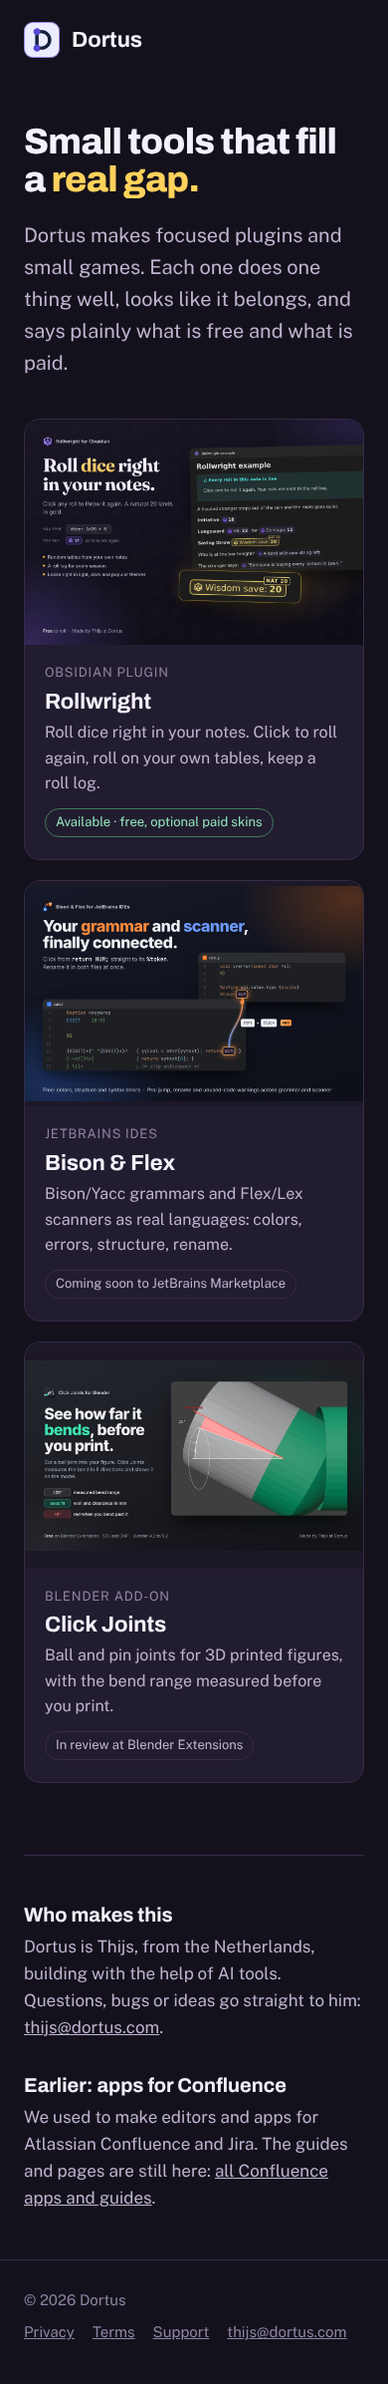
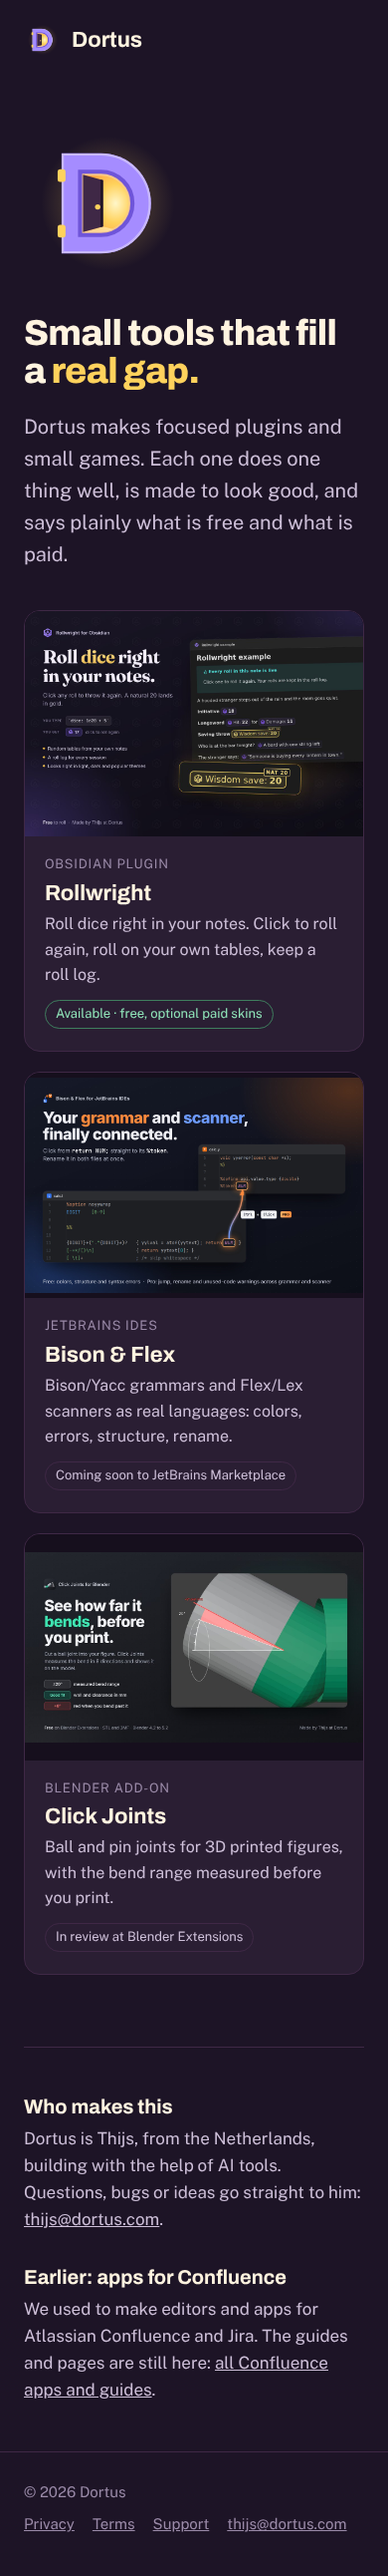
Abel: dortus.com v2 in het uniform (nieuwe bestandsnamen), logboek run 2
Claude-Session: https://claude.ai/code/session_01RMWUyjJZka2UPHxNRUD6xo

diff --git a/platformen/abel/dortus-com/index.html b/platformen/abel/dortus-com/index.html
@@ -5,9 +5,9 @@
   <meta name="viewport" content="width=device-width, initial-scale=1" />
   <title>Dortus: small games and focused tools that fill a real gap</title>
   <meta name="description" content="Dortus makes small games and focused tools: Rollwright for Obsidian, Bison &amp; Flex for JetBrains IDEs, Click Joints for Blender. Made by Thijs in the Netherlands." />
-  <meta name="theme-color" content="#14111c" />
-  <link rel="icon" href="/assets/dortus-mark.svg" type="image/svg+xml" />
-  <link rel="apple-touch-icon" href="/assets/apple-touch-icon.png" />
+  <meta name="theme-color" content="#1d1426" />
+  <link rel="icon" href="/assets/dortus-door-small.svg" type="image/svg+xml" />
+  <link rel="apple-touch-icon" href="/assets/dortus-door-512.png" />
   <link rel="canonical" href="https://dortus.com/" />
   <meta property="og:title" content="Dortus: small games and focused tools" />
   <meta property="og:description" content="Tools that fill a real gap in Obsidian, JetBrains IDEs and Blender. Made by Thijs in the Netherlands." />
@@ -19,7 +19,7 @@
   <style>
     @font-face { font-family: "Archivo"; font-weight: 500 800; font-display: swap; src: url("/assets/fonts/archivo-latin.woff2") format("woff2"); }
     @font-face { font-family: "Public Sans"; font-weight: 400 700; font-display: swap; src: url("/assets/fonts/publicsans-latin.woff2") format("woff2"); }
-    :root { --bg: #14111c; --bg-2: #1d1828; --card: #221c30; --line: #352c47; --ink: #f4f1fa; --ink-2: #bdb4cf; --ink-3: #8d84a3; --accent: #ffd25c; }
+    :root { --bg: #1d1426; --bg-2: #160f1d; --card: #2a1e33; --line: #3f2846; --ink: #fff4e0; --ink-2: #cdbfd8; --ink-3: #9a8aa8; --accent: #ffd25c; --lila: #a58cff; }
     * { box-sizing: border-box; }
     html { -webkit-text-size-adjust: 100%; }
     body { margin: 0; background: var(--bg); color: var(--ink); font: 17px/1.6 "Public Sans", system-ui, sans-serif; }
@@ -28,6 +28,8 @@
     header { padding: 22px 0; }
     .brand { display: inline-flex; align-items: center; gap: 12px; font: 700 22px "Archivo", sans-serif; text-decoration: none; }
     .brand img { width: 36px; height: 36px; border-radius: 9px; }
+    .hero { display: grid; grid-template-columns: 1.4fr 1fr; align-items: center; gap: 32px; }
+    .door { width: 100%; max-width: 340px; justify-self: center; }
     .hero { padding: 64px 0 56px; }
     .hero h1 { font: 800 clamp(36px, 6vw, 64px)/1.05 "Archivo", sans-serif; letter-spacing: -0.02em; margin: 0 0 20px; max-width: 14ch; }
     .hero h1 em { font-style: normal; color: var(--accent); }
@@ -47,22 +49,24 @@
     .about p { margin: 0; color: var(--ink-2); }
     footer { border-top: 1px solid var(--line); padding: 28px 0 40px; color: var(--ink-3); font-size: 15px; }
     footer nav { display: flex; flex-wrap: wrap; gap: 18px; margin-top: 8px; }
-    @media (max-width: 860px) { .grid { grid-template-columns: 1fr; } .about { grid-template-columns: 1fr; } .hero { padding: 36px 0 40px; } }
+    @media (max-width: 860px) { .hero { grid-template-columns: 1fr; } .door { max-width: 160px; justify-self: start; order: -1; } .grid { grid-template-columns: 1fr; } .about { grid-template-columns: 1fr; } .hero { padding: 36px 0 40px; } }
     @media (prefers-reduced-motion: reduce) { .card { transition: none; } .card:hover { transform: none; } }
   </style>
 </head>
 <body>
   <header>
     <div class="wrap">
-      <!-- BEELDMERK: vervangen door het beeldmerk van Mila (merk/avatar-512.png of merkteken.svg) -->
-      <a class="brand" href="/"><img src="/assets/logo-dortus-d-512.png" alt="" />Dortus</a>
+      <a class="brand" href="/"><img src="/assets/dortus-door-512.png" alt="" />Dortus</a>
     </div>
   </header>
 
   <main class="wrap">
     <section class="hero">
+      <div>
       <h1>Small tools that fill a <em>real gap.</em></h1>
-      <p>Dortus makes focused plugins and small games. Each one does one thing well, looks like it belongs, and says plainly what is free and what is paid.</p>
+      <p>Dortus makes focused plugins and small games. Each one does one thing well, is made to look good, and says plainly what is free and what is paid.</p>
+      </div>
+      <img class="door" src="/assets/dortus-door.svg" alt="The Dortus D: a door standing ajar with warm light behind it" />
     </section>
 
     <section class="grid" aria-label="Products">

diff --git a/platformen/abel/logboek.md b/platformen/abel/logboek.md
@@ -21,3 +21,15 @@ Alleen aanvullen, nooit weghalen.
 - `dortus-com/index.html` eerste versie van de nieuwe hoofdpagina (drie productkaarten, wie maakt dit, link naar de oude Confluence-pagina's), met schermafbeeldingen desktop en telefoon, bekeken. Posters eerst bijgesneden aan de bovenkant; opgelost met 3:2 en contain.
 - Volgende run: (1) kijken of Mila iets in `merk/` zette en de plannen daarop aanpassen; (2) Steam Online Conduct lezen; (3) eerste bijdrage op een eigen plek (issues rollwright of click-joints, forumdraad Rollwright); (4) `klaar.md` opzetten.
 - `klaar.md` versie 0 opgezet (volgorde en stand per account).
+
+## Run 2, 10 nov 2026 01:23 NL
+- Gelezen: logboek, berichten, Mila's `merk/uniform.md` (deur-D op een kier) en keuring 1 van Daan. Alle beelden van Mila bekeken met Read.
+- Proef gebouwd: de openbare Steam-pagina van Klei in de browser geladen en hun beelden vervangen door de onze (`merk/bron/mock*.js`). Gemeten hoe Steam toont: kop niet geschaald, gecentreerd, zijkanten eraf plus grijs verloop op de buitenste 15%; achtergrond bovenaan gecentreerd; logo op 1200 breed bovenaan.
+- Vondst 1: in Mila's kop valt de deur op 1024 px weg. Besluit: v1b met haar eigen `kamer()` en de deur op x=950. Waarom: dan staat hij heel op 1024 en 1280 (GEZIEN in `merk/proef/`). Mila's v1 niet overschreven.
+- Vondst 2: de achtergrond had een tweede grote D naast het woordmerk ("ortusD") en half onder de spellen. Besluit: v1b zonder tweede D, het licht valt uit de D van het logo, spullen in de kantlijn. Waarom: één D tegelijk is rustiger en het logo blijft de held. Uitleg en verzoek in `merk/voor-mila.md`.
+- Steam-profiel getoetst: Steam toont maar drie regels. Besluit: profieltekst korter (spel in één regel), zodat het mailadres in beeld blijft. Groep en ontwikkelaarspagina houden de lange zin.
+- Daans moet-punten 1 en 2 en kan-punt 3 verwerkt in `teksten.md` v2 en `steam.md` v2. Regel voor keuring 2 onderaan `ontwerp/keuring-abel.md`.
+- GitHub getoetst op de repopagina van Rollwright (licht en donker): avatar leest op 24 px. Ter info in `github.md`: bij de commits staat "claude" als maker; past bij de eerlijke AI-zin.
+- dortus.com v2 in het uniform, met nieuwe bestandsnamen zodat niets bestaands verandert; voorbeelden opnieuw bekeken. Eerst zag je een donker vierkant achter de grote D; opgelost met een versie zonder achtergrond.
+- `klaar.md` versie 1.
+- Volgende run: keuring 2 van Daan verwerken; kijken of Mila v1b overnam; plannen Polar, Blender, JetBrains, Obsidian met proef per platform (rond knippen op Discourse en Blender ID); Steam Online Conduct lezen; eerste bijdrage op een eigen plek.

diff --git a/platformen/abel/accounts/dortus-com.md b/platformen/abel/accounts/dortus-com.md
@@ -22,3 +22,8 @@ Ja of nee zeggen in de projectchat: "Abel mag de hoofdpagina van dortus.com verv
 
 ## Klaar als
 Thijs zei ja, de nieuwe pagina staat live (curl toont de nieuwe titel), en Daan zette `Akkoord: ja`.
+
+## Versie 2 in het uniform (10 nov ±01:55 NL)
+- `dortus-com/index.html` nu in de kleuren van Mila (Nacht, goud, crème), met de deur-D groot naast de kop en klein in de balk. Voorbeelden opnieuw gemaakt en bekeken: `voorbeeld-desktop.png` (1280) en `voorbeeld-telefoon.png` (390).
+- Nieuwe bestanden, met nieuwe namen zodat geen enkele bestaande pagina verandert: `assets/dortus-door.svg` (zonder achtergrond), `assets/dortus-door-small.svg` (favicon), `assets/dortus-door-512.png` (balk en apple-touch-icon), `assets/og-home.png` (Mila's og 1200 x 630). Klaar in `platformen/abel/dortus-com/assets/`.
+- Na het ja van Thijs zet de hoofdchat in de repo dortus alleen `index.html` en deze vier nieuwe bestanden neer.
